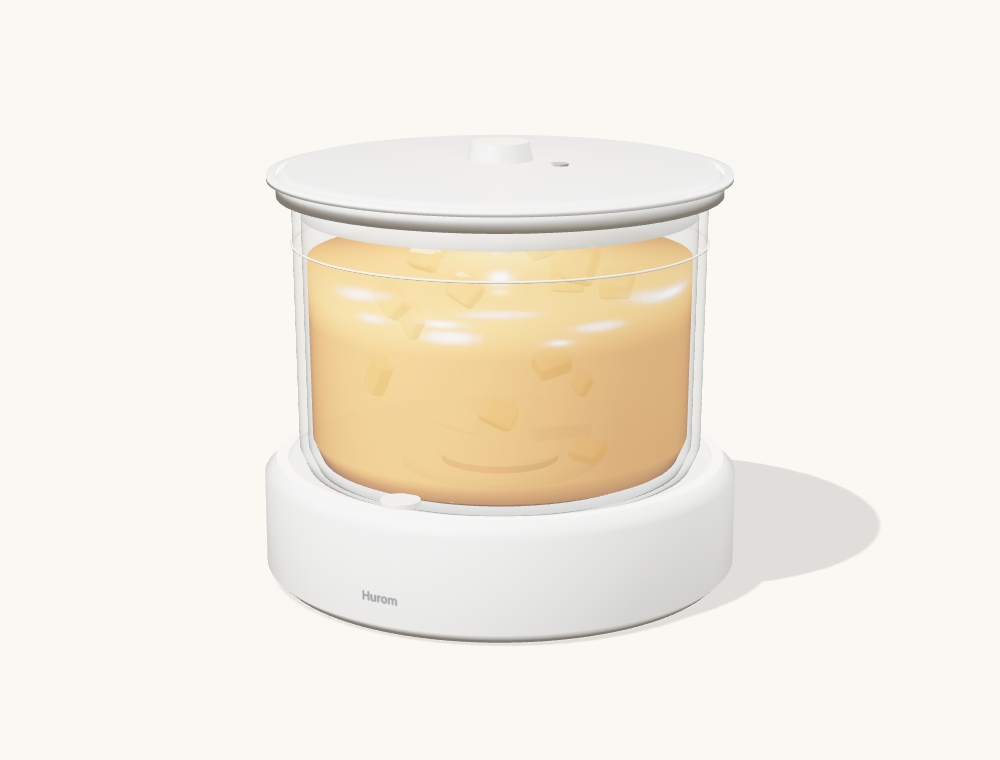
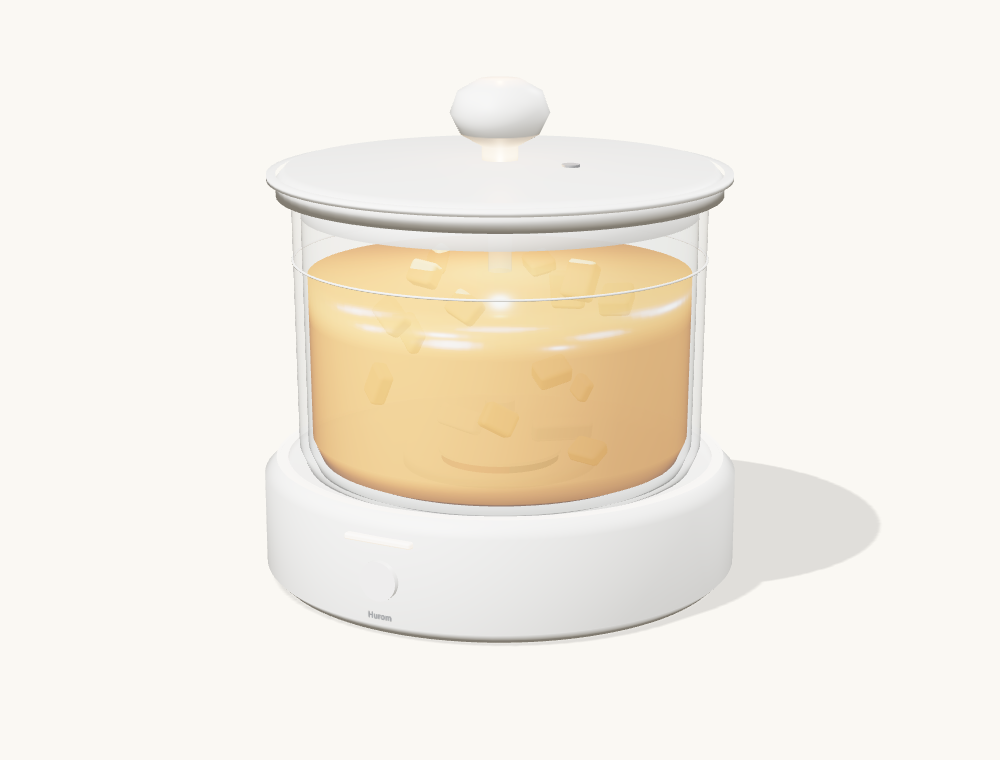
기준 디자인 1L 항아리형 반영(11/18 두팔 ffe51c1 이어서): 3D ?v=lj 기본값(배 Ø130 · 입구 Ø110 · 높이 120 · 받침 Ø150×40 · 받침 윗테 빛 링 · 둥근 손잡이=젓개 축 머리 · 앞면 빛 막대+버튼 · 1.0L 선 부피 계산) · 단면도 section-lite.svg 항아리형 · 05 기준 디자인 3D 렌더 2장 추가 · A/C는 비교안 표기 · 구조 칸 문구(세라믹 볼 삭제) · 맨 아래 「13 결정 요청」 칸 삭제(준보 「이거 지워」, 요약 결정 요청과 중복 · 글자 안 보임) · 렌더

diff --git a/index.html b/index.html
@@ -328,7 +328,7 @@ section h2 .ln{display:block;overflow:hidden}section h2 .ln span{display:block;w
 </style>
 
 <nav><div class="wrap"><b>HUROM<span>청담 · 과일청 메이커 기획서</span></b>
-<ul><li><a href="#summary">요약</a></li><li><a href="#problem">문제</a></li><li><a href="#whynow">왜 휴롬</a></li><li><a href="#product">제품</a></li><li><a href="#design">디자인</a></li><li><a href="#feasible">구조 검토</a></li><li><a href="#market">시장·고객</a></li><li><a href="#pricing">가격 정책</a></li><li><a href="#numbers">숫자</a></li><li><a href="#risk">리스크</a></li><li><a href="#validate">검증·일정</a></li><li><a href="#decision">결정 요청</a></li></ul></div></nav>
+<ul><li><a href="#summary">요약</a></li><li><a href="#problem">문제</a></li><li><a href="#whynow">왜 휴롬</a></li><li><a href="#product">제품</a></li><li><a href="#design">디자인</a></li><li><a href="#feasible">구조 검토</a></li><li><a href="#market">시장·고객</a></li><li><a href="#pricing">가격 정책</a></li><li><a href="#numbers">숫자</a></li><li><a href="#risk">리스크</a></li><li><a href="#validate">검증·일정</a></li></ul></div></nav>
 
 <header class="hero">
   <img src="img/photo_evening_omija.jpg" alt="저녁 조리대 위 과일청 메이커 · 오미자청을 담은 유리 통을 받침 빛이 비춤 · 컨셉 이미지"><div class="scrim"></div>
@@ -361,7 +361,7 @@ section h2 .ln{display:block;overflow:hidden}section h2 .ln span{display:block;w
         <li><b>얼마에 팔고 얼마가 남나?</b> — FOB부터 관세·인증·유통 수수료·AS까지 적층했습니다(<a href="#pricing">가격 정책</a>). 결론: 식히기까지 넣으면 착륙 9.07만(18.9만에 15%), 데우기만이면 7.2만(14.9만에 13%), <b>라이트는 착륙 3.4만 · 6.9만에 대당 0.6만(10%, FTA 14%)</b>입니다. 대당 이익이 작아 <b>자사몰 중심(수수료 12%) · 공용 PM 0.5명</b>이 손익의 조건입니다(<a href="#numbers">09</a>).</li>
         <li><b>살 사람이 있나?</b> — 「담그는 가구」와 「원액기 보유 가구」 두 길로 추정하고, 설문 N≥300으로 바꿔 넣습니다(<a href="#market">시장·고객</a>).</li>
       </ul></div>
-      <div><h3>결정 요청 (자세한 것은 <a href="#decision">맨 아래</a>)</h3><ul>
+      <div><h3>결정 요청</h3><ul>
         <li>① 1단계 검증 12주 · 약 1,500만 원 승인(벤치 · 설문 · 목업)</li>
         <li>② 가격 정책(11/17 결정): <b>「라이트」 6.9만 · USB-C · 1L · 젓기만</b> · 착륙 원가 3.4만(상한 3.6만) · 고급형(약 17만)은 설문 30% 넘으면 2년차</li>
         <li>③ 디자인 — <b>첫 화면 사진의 항아리형</b>을 기준으로(11/18) · A 통형 · C 넓적은 설문 비교안</li>
@@ -491,19 +491,23 @@ section h2 .ln{display:block;overflow:hidden}section h2 .ln span{display:block;w
         <tr><td class="l"><b>앞면</b></td><td class="l">버튼 1 + 빛 막대 1줄 + Hurom 각인 — 그 외 표시 없음 · USB-C는 뒤</td></tr>
       </table></div>
     </div>
+    <div class="two rv" style="margin-top:18px;align-items:start">
+      <div><div class="photo"><img src="img/lite_j.png" alt="기준 디자인 · 항아리형 1L 라이트 · 구조 3D 렌더(낮)"></div><div class="cap"><small>기준 디자인 · 구조 3D(낮)</small><b>배 Ø13 · 입구 Ø11 · 높이 12cm 항아리 + 흰 받침 Ø15 × 4cm · 둥근 손잡이 = 젓개 축 머리</b><p>위 사진을 치수대로 옮긴 구조 모형입니다. 앞면은 빛 막대 1줄 + 버튼 1, 통은 받침 윗면 홈(Ø9.4)에 앉고 받침 윗테 빛 링이 통 바닥을 비춥니다. 1.0L 상한 선은 어깨 아래입니다(전체 1.3L).</p></div></div>
+      <div><div class="photo"><img src="img/lite_j_night.png" alt="기준 디자인 · 항아리형 1L 라이트 · 저녁 조리대 · 유자청 · 받침 빛"></div><div class="cap"><small>기준 디자인 · 저녁</small><b>따뜻한 흰 단색 빛이 유자청 색을 그대로 비춥니다</b><p>분해 · 속 구조는 아래 「구조 3D」에서 스크롤로 봅니다(기본이 항아리형, 단추로 비교안 A · C · 이전 안 2L).</p></div></div>
+    </div>
     <p class="lead2 rv">며칠 동안 조리대 위에 놓여 있고 철마다 다시 꺼내는 물건입니다. 숨기고 싶은 기계면 베란다로 가고, 그러면 쓰지 않게 됩니다. 그래서 <b>꺼내 두고 싶은 물건</b>이어야 합니다. 디자인 작업은 피그마 보드에서 합니다 — 시안·CMF·사용 장면을 거기서 고치고, 이 페이지의 그림은 그 보드를 가져옵니다.</p>
     <a class="figma rv" href="https://www.figma.com/design/4p5ypveUPOybvLEnaq2gcE" target="_blank" rel="noopener">피그마 디자인 보드 열기 →</a> <a class="figma rv" href="film.html" style="background:#e98f1f;color:#15120f">30초 소개 필름 →</a> <a class="figma rv" href="prompts.html" style="background:#fff;color:#15120f;border:1px solid var(--line)">이미지 프롬프트 10컷 →</a>
     <div class="lite-cmp rv" style="margin-top:28px">
       <div class="two" style="margin-top:0">
-        <div><div class="photo"><img src="img/lite_a.png" alt="라이트 A · 통형 1L 유리 통 + 흰 받침 Ø12.5cm · 3D 렌더"></div><div class="cap"><small>비교안 A · 통형</small><b>Ø10 × 15cm 통 + 흰 받침 Ø12.5 × 4.5cm → 전체 Ø12.5 × 21.5cm</b><p>입구 Ø100이 가장 넓어 프레스 성형(항아리 연마 문제 없음). 좁은 조리대 · 냉장고 선반에 그대로 들어가고, 2L 통(별매)도 같은 받침에 앉습니다. 과일 층이 10cm로 깊어 <b>바닥 젓개가 위까지 섞는지</b>가 벤치 과제(염료 시험). 유리 통만 보면 「물병」으로 보일 수 있어 뚜껑 · 빛 테 비례를 피그마에서 다듬습니다.</p></div></div>
-        <div><div class="photo"><img src="img/lite_c.png" alt="라이트 C · 넓적 1L 유리 통 + 흰 받침 Ø16cm · 3D 렌더"></div><div class="cap"><small>비교안 C · 넓적</small><b>Ø13.5 × 9.5cm 통 + 흰 받침 Ø16 × 4cm → 전체 Ø16 × 15.5cm</b><p>바닥 면적이 A의 1.8배라 설탕층이 얇고 Ø6.6cm 날개가 더 넓게 섞어 <b>빨리 · 고르게 녹는 쪽</b>. 과일 층 7cm로 얕아 위까지 섞임이 유리하고 손 넣어 씻기 쉽습니다. 대신 자리를 1.6배 차지하고, 낮고 넓은 비례가 「요거트 메이커 · 반찬통」으로 읽힐 위험이 있어 받침 빛과 뚜껑 디자인에 더 기대야 합니다.</p></div></div>
+        <div><div class="photo"><img src="img/lite_a.png" alt="비교안 A · 통형 1L 유리 통 + 흰 받침 Ø12.5cm · 3D 렌더"></div><div class="cap"><small>비교안 A · 통형</small><b>Ø10 × 15cm 통 + 흰 받침 Ø12.5 × 4.5cm → 전체 Ø12.5 × 21.5cm</b><p>입구 Ø100이 가장 넓어 프레스 성형(항아리 연마 문제 없음). 좁은 조리대 · 냉장고 선반에 그대로 들어가고, 2L 통(별매)도 같은 받침에 앉습니다. 과일 층이 10cm로 깊어 <b>바닥 젓개가 위까지 섞는지</b>가 벤치 과제(염료 시험). 유리 통만 보면 「물병」으로 보일 수 있어 뚜껑 · 빛 테 비례를 피그마에서 다듬습니다.</p></div></div>
+        <div><div class="photo"><img src="img/lite_c.png" alt="비교안 C · 넓적 1L 유리 통 + 흰 받침 Ø16cm · 3D 렌더"></div><div class="cap"><small>비교안 C · 넓적</small><b>Ø13.5 × 9.5cm 통 + 흰 받침 Ø16 × 4cm → 전체 Ø16 × 15.5cm</b><p>바닥 면적이 A의 1.8배라 설탕층이 얇고 Ø6.6cm 날개가 더 넓게 섞어 <b>빨리 · 고르게 녹는 쪽</b>. 과일 층 7cm로 얕아 위까지 섞임이 유리하고 손 넣어 씻기 쉽습니다. 대신 자리를 1.6배 차지하고, 낮고 넓은 비례가 「요거트 메이커 · 반찬통」으로 읽힐 위험이 있어 받침 빛과 뚜껑 디자인에 더 기대야 합니다.</p></div></div>
       </div>
       <div class="night">
-        <div><img src="img/lite_a_night.png" alt="라이트 A · 저녁 조리대 · 유자청 · 받침 빛"><small>라이트 A · 저녁 — 단색 받침 빛이 통 안 유자청 색을 그대로 비춥니다</small></div>
-        <div><img src="img/lite_c_night.png" alt="라이트 C · 저녁 조리대 · 유자청 · 받침 빛"><small>라이트 C · 저녁 — 같은 빛, 넓은 통</small></div>
+        <div><img src="img/lite_a_night.png" alt="비교안 A · 저녁 조리대 · 유자청 · 받침 빛"><small>비교안 A · 저녁 — 같은 받침 빛, 통형</small></div>
+        <div><img src="img/lite_c_night.png" alt="비교안 C · 저녁 조리대 · 유자청 · 받침 빛"><small>비교안 C · 저녁 — 같은 빛, 넓은 통</small></div>
       </div>
       <table class="pl" style="margin-top:18px">
-        <tr><th class="l" style="width:22%">비교</th><th class="l" style="width:39%">라이트 A · 통형</th><th class="l">라이트 C · 넓적</th></tr>
+        <tr><th class="l" style="width:22%">비교(설문용 비교안 — 기준은 위 항아리형)</th><th class="l" style="width:39%">비교안 A · 통형</th><th class="l">비교안 C · 넓적</th></tr>
         <tr><td class="l"><b>유리 통</b></td><td class="l">내경 Ø100 × 150mm · 전체 1.2L · 1.0L 상한 선 · 붕규산 3.3 · 프레스 성형</td><td class="l">내경 Ø130 × 95mm · 전체 약 1.3L · 1.0L 상한 선(70mm) · 붕규산 3.3 · 프레스 성형</td></tr>
         <tr><td class="l"><b>전체 크기 · 무게</b></td><td class="l">Ø12.5 × 21.5cm · 약 0.9kg</td><td class="l">Ø16 × 15.5cm · 약 1.0kg(유리가 조금 더)</td></tr>
         <tr><td class="l"><b>받침 · 구동</b></td><td class="l">Ø12.5 × 4.5cm · 자석 디스크 Ø40 · 젓개 Ø5.4cm 날개 3</td><td class="l">Ø16 × 4cm · 자석 디스크 Ø40(같음) · 젓개 Ø6.6cm 날개 3 · 필요 토크 약 1.3배(여유 안)</td></tr>
@@ -545,10 +549,10 @@ section h2 .ln{display:block;overflow:hidden}section h2 .ln span{display:block;w
   <div class="wrap">
     <div class="kicker rv">06 · 구조 성립 검토 — 진짜 되나</div>
     <h2 class="rv">열여섯 번 따지고 수천 번 돌려서, 다섯 군데를 바꿨습니다.</h2>
-    <p class="note rv" style="border-left:3px solid #1f8a5b;padding-left:10px"><b>읽는 법(11/17):</b> 이 칸의 검토 ①~⑯은 <b>2L · 데우기/식히기 이전 안</b> 기준입니다. 기본안 「라이트」(1L · 젓기만)는 자석 토크 필요치가 0.5 → 0.1 N·m, 유리 바닥 창은 같고, 열 · 결로 · 펠티어 · 히터 항목은 해당 없음이라 <b>모두 더 여유 있는 쪽</b>입니다. 1L 전용 수치는 1주차 벤치 뒤 갱신합니다(<a href="#lite2">라이트 검토</a>). 단면도와 3D는 라이트 A 기준으로 다시 그렸고, 2L 단면도는 접힌 칸에 있습니다.</p>
+    <p class="note rv" style="border-left:3px solid #1f8a5b;padding-left:10px"><b>읽는 법(11/17):</b> 이 칸의 검토 ①~⑯은 <b>2L · 데우기/식히기 이전 안</b> 기준입니다. 기본안 「라이트」(1L · 젓기만)는 자석 토크 필요치가 0.5 → 0.1 N·m, 유리 바닥 창은 같고, 열 · 결로 · 펠티어 · 히터 항목은 해당 없음이라 <b>모두 더 여유 있는 쪽</b>입니다. 1L 전용 수치는 1주차 벤치 뒤 갱신합니다(<a href="#lite2">라이트 검토</a>). 단면도와 3D는 11/18 기준 디자인(1L 항아리형)으로 다시 그렸고, 2L 단면도는 접힌 칸에 있습니다.</p>
     <p class="lead2 rv">그림이 예쁜 것과 기계가 도는 것은 다릅니다. 힘 · 열 · 물 · 유리 · 안전을 하나씩 숫자로 따졌습니다. 아래 값은 설계 계산이며 <b>1단계 벤치에서 실측으로 바꿉니다.</b> 1차 검토(①~⑩) 뒤 사용 기간별 불량을 막는 보완안을 냈고, 그 보완안을 다시 의심해 <b>자석 · 젓기 · 열 · 유리 네 가지를 시뮬레이션으로 반복</b>했습니다(⑪~⑯: 공차 몬테카를로 5,000회 · 젓기 무작위 600회 · 1년 8개 달 열 계산). 바뀐 것 다섯: <b>① 자석 = 다극 링 1개 Ø70 · 간격 5.5mm</b> ② <b>유리 바닥 = 오목 자리 + 세라믹 볼</b> ③ <b>헛돎 판정 = 토크 방향 뒤집힘</b> ④ <b>결로 기준 = 컵 밀봉 + 유리 벽</b>, 여름 약속은 실온 −3~5°C ⑤ <b>스러스트 베어링 · 온도 퓨즈 · 통 감지 방식</b>. <b>11/17: 식히기(펠티어)를 기본형에서 빼서, 아래 표의 결로 · 극 전환 · 식혀 두기 줄은 「프로」 검토용으로만 남습니다.</b></p>
     <div class="duo rv" style="margin-top:24px"><div class="ph tilt" style="aspect-ratio:3/2"><img src="img/photo_cutaway.jpg" alt="과일청 메이커 단면 컨셉 이미지 · 유리 바닥 돌기 · 실리콘 교반 날개(자석 6개) · 하부 자석 디스크 · 슬림 기어모터 · 알루미늄 컵 · 펠티어 모듈"><span class="mono">04 / 단면 컨셉 (AI 이미지 · 2L 이전 안 · 비례 확인용)</span></div><div class="box" style="margin-top:0"><h3>신박한 점 하나 — 통에 구멍 없이 자석으로 젓습니다</h3><ul><li>유리 통 바닥에는 구멍·축·실링이 <b>없습니다.</b> 그래서 새지 않고, 통째 들어 냉장고로 갑니다.</li><li>바닥 가운데 오목 자리에 <b>실리콘 젓개(자석 디스크 Ø40 봉입 · 세라믹 볼 받침)</b>를 얹고, 유리 너머(유효 간격 4.5mm) 아래의 <b>자석 디스크</b>가 돌립니다(2L 이전 안은 링 자석 Ø70 · 5.5mm).</li><li>씻을 것은 뚜껑·유리 통·젓개 셋. 젓개는 뽑아서 식기세척기에 넣습니다. 축이 있는 블렌더·제빵기 통과 다른 점입니다.</li><li>힘이 모자라면(라이트 벤치 0.1 N·m 미달) 그때 바닥 축 직결로 바꿉니다 — 지금은 자석이 기본안입니다.</li></ul></div></div>
-    <div class="figure rv"><img src="img/section-lite.svg" alt="라이트 A 단면도 · 1L 유리 통 바닥과 받침 가운데 · 젓개 · 자석 디스크 Ø40 · 5V 기어 모터 · 보드 · USB-C 꽂이"><small>단면 · 라이트 A(1L) · 15개 부품의 자리와 치수. 가운데는 <b>뚜껑에서 내려온 투명 축 + 딸깍 젓개</b>(바닥 평평), 젓개 속은 <b>자석 디스크 Ø40(4극)</b>, 아래는 <b>디스크 + 부시 + 5V 기어 모터</b>. 컵 · 히터 · 펠티어 · 팬 없음. 축척 아님.</small></div>
+    <div class="figure rv"><img src="img/section-lite.svg" alt="라이트 항아리형 단면도 · 1L 유리 통 바닥과 받침 가운데 · 젓개 · 자석 디스크 Ø40 · 5V 기어 모터 · 보드 · USB-C 꽂이 · 받침 윗테 빛 링"><small>단면 · 라이트 항아리형(1L · 기준 디자인 · 배 Ø130 · 입구 Ø110 · 받침 Ø150 × 40) · 16개 부품의 자리와 치수. 가운데는 <b>뚜껑 손잡이에서 내려온 투명 축 + 딸깍 젓개</b>(바닥 평평), 젓개 속은 <b>자석 디스크 Ø40(4극)</b>, 아래는 <b>디스크 + 부시 + 5V 기어 모터</b>, 받침 윗테에 <b>빛 링</b>. 컵 · 히터 · 펠티어 · 팬 없음. 비교안 A · C는 통 모양만 다릅니다. 축척 아님.</small></div>
     <details class="prev"><summary>이전 안 · 2L 단면도(펠티어 · 알루미늄 컵 · 팬 · 링 자석 Ø70 포함 · 비교용)</summary><div class="figure" style="margin-top:0"><img src="img/section.svg" alt="통 바닥과 받침 가운데 단면도 · 유리 돌기 · 젓개 · 자석 원판 · 모터 · 펠티어 · 팬 · 결로 물받이"><small>단면 · 16개 부품의 자리와 치수(2차 검토 반영 이름표). 가운데는 <b>오목 자리 + 세라믹 볼</b>, 젓개 속은 <b>링 자석 1개</b>, 구동 원판 아래 스러스트 베어링(⑤ · ⑧ · ⑪). 축척 아님.</small></div></details>
     <table class="pl rv">
       <tr><th class="l" style="width:17%">검토 항목</th><th class="l" style="width:38%">계산 · 근거</th><th class="l" style="width:33%">결론 · 설계 반영</th><th>판정</th></tr>
@@ -574,7 +578,7 @@ section h2 .ln{display:block;overflow:hidden}section h2 .ln span{display:block;w
       <div><h3>이번 검토로 바뀐 것</h3><ul><li>식혀 두기 15~18°C 고정 → <b>이슬점 연동(최저 18°C, 장마철엔 23°C 안팎)</b>. 온습도 센서를 보드에 넣고 사양·작동·안전 칸을 모두 고쳤습니다.</li><li>컵 둘레 <b>물받이 홈 + 배수</b>, 보드 코팅 추가(결로 대비).</li><li>젓개 날개에 각도(축류) · 벤치에 <b>염료 순환 시험</b> 추가.</li><li>사용 기간별 불량을 따로 따져 <b>부품 10곳</b>을 더 바꿨습니다 — 자석 도금·기밀, 탈조 감지, BLDC, 붕규산 확정, 바닥 트레이, 통 감지 핀 위치 등(<a href="#lifecycle">11-B 재검토 표</a>).</li><li><b>2차(시뮬레이션 반복)</b>: 자석 다극 링 1개 Ø70 · 간격 5.5mm · 스러스트 베어링 · 컵 구멍 Ø76.</li><li><b>2차</b>: 유리 돌기 → 오목 자리 + 세라믹 볼 · 열탕 뒤 식히기 보류.</li><li><b>2차</b>: 헛돎 판정(토크 방향) · 통 감지 누름 핀 + 홀 · 72°C 온도 퓨즈.</li><li><b>2차</b>: 컵 밀봉 링 + 유리 벽 결로 기준 · 실리콘 막 · 여름 약속 실온 −3~5°C.</li></ul></div>
       <div><h3>벤치에서 꼭 재야 하는 숫자 5개</h3><ul><li>링 자석 Ø70 · 간격 5.5mm에서 미끄러지는 토크(목표 0.5, 계산 0.62~0.67 N·m) · FEM과 비교</li><li>통 세 지점 온도가 25~30°C에 드는 시간(목표 ≤3시간)</li><li>28°C·습도 75% 방에서 유리 벽 기준 제어 시 하루 결로량(목표 ≤10ml) · 12시간 뒤 실온보다 내려간 폭(계산 3.4°C)</li><li>걸쭉한 청 · 덩어리 · 첫날 더미에서 헛돎 판정이 100% 잡는지</li><li>바닥 날개 작동 시 염료가 윗면까지 도는 시간(목표 ≤10분)</li></ul></div>
     </div>
-    <div class="box rv" style="margin-top:24px"><h3>구조 3D · 분해도 (아래로 스크롤하면 부품별로 분해됩니다)</h3><p class="note">3D는 구조 설명용 모형입니다. 치수는 실제 디자인과 다를 수 있습니다. <b>라이트 A(통형) · C(넓적)</b>, 청 색, 나무 안을 단추로 바꿔 볼 수 있고, 「이전 안 2L」 단추로 항아리 시안 3개(펠티어 · 컵 · 팬 포함)도 볼 수 있습니다.</p></div>
+    <div class="box rv" style="margin-top:24px"><h3>구조 3D · 분해도 (아래로 스크롤하면 부품별로 분해됩니다)</h3><p class="note">3D는 구조 설명용 모형입니다. 치수는 실제 디자인과 다를 수 있습니다. 기본은 <b>기준 디자인(1L 항아리형)</b>이고, <b>비교안 A(통형) · C(넓적)</b>, 청 색, 나무 안을 단추로 바꿔 볼 수 있습니다. 「이전 안 2L」 단추로 2L 시안 3개(펠티어 · 컵 · 팬 포함)도 볼 수 있습니다.</p></div>
   </div>
 </section>
 
@@ -584,15 +588,15 @@ section h2 .ln{display:block;overflow:hidden}section h2 .ln span{display:block;w
     <a class="xv-skip" href="#spec">분해 보기 건너뛰기 ↓</a>
     <div class="xv-hint">스크롤을 내리면 날이 밝고 부품이 분해됩니다</div>
     <div class="xv-text">
-      <div class="xv-step on"><div class="kicker">구조 · 저녁 앞모습 (<span data-xv-lite="1">라이트 A Ø12.5 × 21.5cm · C Ø16 × 15.5cm</span><span data-xv-prev="1" hidden>2L 이전 안 · 시안 A Ø19 × 23cm</span>)</div><h2>받침 빛이 청을 비춥니다.</h2>
-    <p><span data-xv-lite="1">낮은 흰 받침(높이 4.5cm) 위에 1L 유리 통이 바로 앉습니다 — 알루미늄 컵이 없습니다. 자리 바닥의 단색 LED와 통 둘레 빛 테가 통을 아래에서 비춰 청 색이 그대로 보입니다. 아래 단추로 <b>라이트 A(통형) · C(넓적)</b> · 청 색 · 나무 안을 바꾸고, 「이전 안 2L」 단추로 항아리 시안도 볼 수 있습니다.</span><span data-xv-prev="1" hidden>2L 이전 안: 낮은 흰 받침(높이 5cm) 안에 알루미늄 컵이 있고, 거기에 항아리형 유리 통이 앉습니다. 통 둘레 빛 테와 컵 바닥 RGB LED 링이 품목 색으로 통을 아래에서 비춥니다.</span> 스크롤을 내리면 날이 밝고 부품별로 분해됩니다.</p></div>
+      <div class="xv-step on"><div class="kicker">구조 · 저녁 앞모습 (<span data-xv-lite="1">라이트 · 항아리형 Ø15 × 약 19cm(기준) · 비교안 A Ø12.5 × 21.5 · C Ø16 × 15.5</span><span data-xv-prev="1" hidden>2L 이전 안 · 시안 A Ø19 × 23cm</span>)</div><h2>받침 빛이 청을 비춥니다.</h2>
+    <p><span data-xv-lite="1">낮은 흰 받침(Ø15 × 4cm) 위에 1L 항아리형 유리 통(배 Ø13 · 입구 Ø11 · 높이 12cm)이 바로 앉습니다 — 알루미늄 컵이 없습니다. 받침 윗테 빛 링과 자리 바닥의 단색 LED가 통을 아래에서 비춰 청 색이 그대로 보입니다. 앞면은 빛 막대 1줄 + 버튼 1, 뚜껑의 둥근 손잡이는 젓개 축의 머리입니다. 아래 단추로 <b>기준(항아리형) · 비교안 A(통형) · C(넓적)</b> · 청 색 · 나무 안을 바꾸고, 「이전 안 2L」 단추로 2L 시안도 볼 수 있습니다.</span><span data-xv-prev="1" hidden>2L 이전 안: 낮은 흰 받침(높이 5cm) 안에 알루미늄 컵이 있고, 거기에 항아리형 유리 통이 앉습니다. 통 둘레 빛 테와 컵 바닥 RGB LED 링이 품목 색으로 통을 아래에서 비춥니다.</span> 스크롤을 내리면 날이 밝고 부품별로 분해됩니다.</p></div>
       <div class="xv-step"><div class="kicker">구조 · 뒷모습</div><h2><span data-xv-lite="1">뒤에는 USB-C 꽂이 하나.</span><span data-xv-prev="1" hidden>열과 선은 뒤로.</span></h2><p><span data-xv-lite="1">뒷면에는 USB-C 꽂이 하나뿐입니다. 팬 · 배기 슬롯 · 어댑터가 없어 바람길이 없습니다. 폰 충전기(5V 2A 이상)에 C-to-C 케이블로 꽂습니다. 앞에서는 버튼 하나와 빛 한 줄만 보입니다.</span><span data-xv-prev="1" hidden>2L 이전 안: 뒷면 슬롯으로 바람이 나갑니다. 바람은 바닥판 슬롯으로 들어와 방열판을 지나 뒤로 나갑니다. 어댑터 선도 뒤 아래로. 앞에서는 아무것도 안 보입니다.</span></p></div>
-      <div class="xv-step"><div class="kicker">구조 · 속</div><h2><span data-xv-lite="1">가운데는 자석뿐, 열은 없습니다.</span><span data-xv-prev="1" hidden>가운데는 자석, 둘레는 히터.</span></h2><p><span data-xv-lite="1">통 자리 바닥 바로 아래 자석 디스크 Ø40(4극)가 유효 간격 4.5mm(유리 2.5 + 젓개 덮개 + 띄움 + 틈)로 유리 너머 젓개를 돌립니다. 젓개는 통 바닥 가운데 오목 자리에 세라믹 볼로 얹혀 제자리에서만 돌고, 통에 구멍이 없습니다. 자석이 당기는 힘(약 8N)은 부시가 받습니다. 모터는 5V 기어 모터 20~30rpm, 걸림 · 헛돎 · 다 녹음은 모터 전류로 판정합니다. 히터 · 컵 · 펠티어 · 팬은 없습니다.</span><span data-xv-prev="1" hidden>2L 이전 안: 알루미늄 컵 가운데 Ø76mm는 뚫려 있어 유리 바닥(약 2.5mm)만 남고, 그 바로 아래 다극 링 자석 원판(Ø70)이 유효 간격 5.5mm로 유리 너머 젓개를 돌립니다. 자석끼리 당기는 힘은 원판 아래 스러스트 베어링이 받습니다. 컵 바깥 펠티어가 컵을 데우거나 식히고, 주황색 선은 바람길입니다.</span></p></div>
-      <div class="xv-step"><div class="kicker">구조 · 분해</div><h2><span data-xv-lite="1">부품 11개, 씻는 것은 셋 — 뚜껑을 들면 젓개가 따라 나옵니다.</span><span data-xv-prev="1" hidden>부품 14개, 씻는 것은 셋.</span></h2><p><span data-xv-lite="1">뚜껑을 들면 가운데 투명 축(트라이탄 Ø8)에 달린 젓개가 같이 올라옵니다 — 다 된 청 속에 손을 넣을 일이 없습니다. 젓개는 축 끝에서 딸깍 빼 식기세척기에 넣고, 통은 바닥이 평평해(오목 자리 · 세라믹 볼 없음) 손이 다 닿습니다. 다 녹으면 납작한 보관 뚜껑(밸브)으로 바꿔 통째 냉장고로 옮깁니다. 빛 링 · 구동 자석 디스크와 모터 · 보드 · 바닥판은 받침에 남습니다. 센서는 통 감지 홀 센서와 모터 전류 감지뿐입니다. 전원은 USB-C 5V(어댑터 없음 · C-to-C 케이블 1m 동봉).</span><span data-xv-prev="1" hidden>2L 이전 안: 컵·빛 링·펠티어·방열판·팬·구동 자석 원판과 모터·보드·바닥판은 받침에 남습니다. 센서는 NTC(컵) + 통 감지 누름 핀 · 홀 센서 + 72°C 온도 퓨즈. 전원은 12V 외장 어댑터.</span></p></div>
+      <div class="xv-step"><div class="kicker">구조 · 속</div><h2><span data-xv-lite="1">가운데는 자석뿐, 열은 없습니다.</span><span data-xv-prev="1" hidden>가운데는 자석, 둘레는 히터.</span></h2><p><span data-xv-lite="1">통 자리 바닥 바로 아래 자석 디스크 Ø40(4극)가 유효 간격 4.5mm(유리 2.5 + 젓개 덮개 + 띄움 + 틈)로 유리 너머 젓개를 돌립니다. 젓개는 뚜껑에서 내려온 투명 축 끝에 끼워져 제자리에서만 돌고(바닥 평평 · 오목 자리 · 세라믹 볼 없음), 통에 구멍이 없습니다. 자석이 당기는 힘(약 8N)은 부시가 받습니다. 모터는 5V 기어 모터 20~30rpm, 걸림 · 헛돎 · 다 녹음은 모터 전류로 판정합니다. 히터 · 컵 · 펠티어 · 팬은 없습니다.</span><span data-xv-prev="1" hidden>2L 이전 안: 알루미늄 컵 가운데 Ø76mm는 뚫려 있어 유리 바닥(약 2.5mm)만 남고, 그 바로 아래 다극 링 자석 원판(Ø70)이 유효 간격 5.5mm로 유리 너머 젓개를 돌립니다. 자석끼리 당기는 힘은 원판 아래 스러스트 베어링이 받습니다. 컵 바깥 펠티어가 컵을 데우거나 식히고, 주황색 선은 바람길입니다.</span></p></div>
+      <div class="xv-step"><div class="kicker">구조 · 분해</div><h2><span data-xv-lite="1">부품 11개, 씻는 것은 셋 — 뚜껑을 들면 젓개가 따라 나옵니다.</span><span data-xv-prev="1" hidden>부품 14개, 씻는 것은 셋.</span></h2><p><span data-xv-lite="1">뚜껑의 둥근 손잡이(= 축 머리)를 잡아 들면 가운데 투명 축(트라이탄 Ø8)에 달린 젓개가 같이 올라옵니다 — 다 된 청 속에 손을 넣을 일이 없습니다. 젓개는 축 끝에서 딸깍 빼 식기세척기에 넣고, 통은 바닥이 평평해(오목 자리 · 세라믹 볼 없음) 손이 다 닿습니다. 다 녹으면 납작한 보관 뚜껑(밸브)으로 바꿔 통째 냉장고로 옮깁니다. 빛 링 · 구동 자석 디스크와 모터 · 보드 · 바닥판은 받침에 남습니다. 센서는 통 감지 홀 센서와 모터 전류 감지뿐입니다. 전원은 USB-C 5V(어댑터 없음 · C-to-C 케이블 1m 동봉).</span><span data-xv-prev="1" hidden>2L 이전 안: 컵·빛 링·펠티어·방열판·팬·구동 자석 원판과 모터·보드·바닥판은 받침에 남습니다. 센서는 NTC(컵) + 통 감지 누름 핀 · 홀 센서 + 72°C 온도 퓨즈. 전원은 12V 외장 어댑터.</span></p></div>
     </div>
     <div class="xv-stage"><canvas id="xv-canvas" aria-label="청담 3D · 시안 · 청 색 · 분해도"></canvas><div id="xv-labels"></div>
       <div class="xv-colors" role="group" aria-label="시안과 청 색">
-        <div><button data-xv-variant="la" class="txt on">라이트 A · 통형</button><button data-xv-variant="lc" class="txt">라이트 C · 넓적</button><button data-xv-wood="1" class="txt"><i style="background:#c99a66"></i>나무</button></div>
+        <div><button data-xv-variant="lj" class="txt on">라이트 · 항아리형(기준)</button><button data-xv-variant="la" class="txt">비교안 A · 통형</button><button data-xv-variant="lc" class="txt">비교안 C · 넓적</button><button data-xv-wood="1" class="txt"><i style="background:#c99a66"></i>나무</button></div>
         <div><span class="xv-sep">이전 안 2L</span><button data-xv-variant="a" class="txt prev">A 항아리</button><button data-xv-variant="b" class="txt prev">B 원통</button><button data-xv-variant="c" class="txt prev">C 넓적</button></div>
         <div><button data-xv-color="yuja" class="on"><i style="background:#f29a2e"></i>유자</button><button data-xv-color="maesil"><i style="background:#8cb43c"></i>매실</button><button data-xv-color="omija"><i style="background:#c41f3e"></i>오미자</button><button data-xv-color="strawberry"><i style="background:#f06a8c"></i>딸기</button></div>
       </div></div>
@@ -1101,21 +1105,6 @@ section h2 .ln{display:block;overflow:hidden}section h2 .ln span{display:block;w
       <div><h3>조직 · 역할</h3><ul><li><b>PM 1</b>(기획 · 검증 · 가격) — AX팀</li><li><b>기구 1</b>(컵 · 젓개 · 유리 · 금형 관리) — 제품혁신부문 또는 외주 + AI 설계 검증</li><li><b>회로 · 펌웨어</b> — 외주(서늘고·해동기 보드와 공통 설계)</li><li><b>ID</b> — 외주(피그마 보드 기준) · <b>구매</b>(ODM · 유리 · 자석) · <b>품질</b>(식품 접촉 · 신뢰성)</li><li>단계 전환 조건: G1 통과 시 기구·회로 전담 지정, G2 전 품질 합류</li></ul></div>
       <div><h3>출시 — 북극성 지표와 90일 KPI</h3><ul><li><b>북극성:</b> 구매 후 30일 안에 첫 통을 담근 비율 <b>70%</b> · 두 번째 철에 다시 담근 비율 <b>50%</b>(사용률이 곧 재구매·추천)</li><li><b>90일 KPI:</b> 1차 로트 3,000대 소진 · 자사몰 비중 50% · 반품률 3% 이하 · 리뷰 「설탕 다 녹았다」 언급 60% 이상</li><li><b>메시지:</b> 「넣고, 누르고, 알림 오면 냉장고로.」 · 「올해 유자청은 실패 없이.」</li><li><b>채널 · 시즌:</b> 11월 유자 출시 → 3월 딸기 → 6월 매실(통 추가 판매) · 원액기 CRM 선공개 · 선물 세트(통 2개)</li></ul></div>
     </div>
-  </div>
-</section>
-
-<section id="decision" style="background:#15120f;color:#f3efe8">
-  <div class="wrap">
-    <div class="kicker rv" style="color:#a89f93">13 · 결정 요청</div>
-    <h2 class="rv" style="color:#fff">다섯 가지를 결정해 주시면 12주 뒤 숫자로 돌아오겠습니다.</h2>
-    <div class="decide rv">
-      <div><small>결정 1</small><b>1단계 검증 승인</b><p>12주 · 약 1,500만 원(벤치 450 · 설문/인터뷰 550 · 목업 500). 결과는 Go 기준 4개와 중단 기준으로 G1(2027-03)에 보고합니다.</p></div>
-      <div><small>결정 2</small><b>가격 정책 방향</b><p><b>11/17 결정(준보 님) — 기본안 「라이트」 6.9만 원 · USB-C · 1L 붕규산 · 젓기만</b>(<a href="#lite2">검토</a>) · 착륙 원가 3.4만(상한 3.6만, FTA 시 3.2만) · 프로모션 하한 6.4만 · <b>자사몰 중심 유통(수수료 12%) · 공용 PM 0.5명이 손익 조건</b>. 설문 가격 문항 5.9 / 6.9 / 7.9만 + 「3만 요거트 메이커 vs 6.9만 라이트 vs 17만 고급형」 사진 비교. 고급형(약 17만 · 2L · 데우기/식히기)은 선택 30% 넘으면 2년차 추가. 이전 안: 데우기만 14.9만(11/17 오전) · 식히기 포함 18.9만.</p></div>
-      <div><small>결정 3</small><b>디자인 시안 A</b><p>항아리형 + 낮은 흰 받침으로 피그마 디자인을 진행합니다(나무 안은 옵션). B는 바닥 오목 자리 때문에 기성 통을 못 써서 제외, C는 대안으로 보관.</p></div>
-      <div><small>결정 4</small><b>ODM 견적</b><p>라이트는 서늘고 · 해동기 묶음(12V · 펠티어 · BLDC)과 부품이 거의 겹치지 않으므로 <b>요거트 메이커 · 자석 믹싱컵을 만드는 광둥 ODM 3곳</b>에 따로 견적을 냅니다(1L 붕규산 통은 허베이 · 산둥 유리 공장 직구매 후 지급). 서늘고 · 해동기 묶음 견적은 그대로 진행.</p></div>
-      <div><small>결정 5</small><b>2차 구조 검토 결과</b><p>① 통 모양: 입구(Ø12)가 배(Ø16)보다 좁은 항아리는 프레스로 못 빼 취입 + 바닥 연마(통 단가 +0.2만)가 필요합니다. 입구를 배 가까이 넓힌 프레스형을 권합니다. ② 여름 식히기 · 단열 슬리브 · 데우기 히터 · 알루미늄 컵은 라이트에서 모두 뺐습니다(11/17). ③ 11/18 기준 디자인은 첫 화면 사진의 <b>1L 항아리형</b>(배 Ø130 · 입구 Ø110 · 높이 120)입니다. 입구가 배보다 좁아 취입 성형이 필요하지만, 젓개가 뚜껑 축에 달려 바닥이 평평해졌으므로 바닥 연마는 빠집니다(통 단가 +0.1~0.2만 추정). A 통형 · C 넓적은 설문 비교안으로 둡니다.</p></div>
-    </div>
-    <p class="note rv" style="color:#a89f93;margin-top:28px">후속 요청: 특허팀 KIPRIS 선행 조사(출원 후보 3건) · 자사몰 회원 설문 발송 승인 · 유리 공장 2곳 샘플 의뢰(오목 자리 · 항아리+연마 / 넓은 입구 프레스) · 자석 협력사 FEM 해석 의뢰.</p>
   </div>
 </section>
 

diff --git a/explode.js b/explode.js
@@ -7,7 +7,8 @@ import { RoomEnvironment } from 'three/addons/environments/RoomEnvironment.js';
 //   시안 3개: A 항아리형 유리 + 흰 무광 받침 · B 원통 유리 + 연회색 세라믹 받침 · C 넓적한 낮은 유리 + 베이지 받침. 나무 안: 뚜껑 손잡이·받침 윗테.
 //   치수는 모두 가정(단위 10cm): A 받침 Ø20 × 6cm · 통 Ø16(배) × 16cm · 뚜껑 1.2cm.
 //   2026-11-17 라이트 기본안(준보 「둘 다 넣어봐」): ?v=la(통형 1L) · ?v=lc(넓적 1L) — USB-C 5V · 자석 디스크 Ø40 · 5V 기어 모터 · 컵 · 히터 · 펠티어 · 팬 · 어댑터 없음. a|b|c 는 2L 이전 안(비교용).
-//   쿼리: ?p=0~1 진행도 · ?v=la|lc|a|b|c 시안 · ?c=yuja|maesil|omija|strawberry 청 색 · ?wood 나무 안 · ?night 저녁 장면 고정 · ?day 낮 고정 · ?ang=<도> · ?cy= · ?noairg ?noadapter ?nofruit
+//   2026-11-18 기준 디자인 = 첫 화면 사진(준보 「메인이미지대로 보완」): ?v=lj 항아리형 1L — 배 Ø130 · 입구 Ø110 · 높이 120 · 받침 Ø150 × 40 · 받침 윗테 빛 링 · 뚜껑 손잡이 = 젓개 축 머리 · 앞면 버튼 1 + 빛 막대. la/lc 는 설문 비교안.
+//   쿼리: ?p=0~1 진행도 · ?v=lj|la|lc|a|b|c 시안 · ?c=yuja|maesil|omija|strawberry 청 색 · ?wood 나무 안 · ?night 저녁 장면 고정 · ?day 낮 고정 · ?ang=<도> · ?cy= · ?noairg ?noadapter ?nofruit
 const sec = document.getElementById('structure');
 const canvas = document.getElementById('xv-canvas');
 const labelLayer = document.getElementById('xv-labels');
@@ -80,8 +81,9 @@ const M = {
 
 /* ---------- 시안 · 청 색 ---------- */
 const VARIANTS = {
-  la: { name: '라이트 A · 통형 1L · 흰 받침', lite: true, baseR: 0.625, baseH: 0.45, square: false, baseColor: 0xf4f4f1, baseRough: 0.45, baseClear: 0.3, jar: 'lcyl', jarH: 1.5, mouthR: 0.53, cupR: 0.56 },
-  lc: { name: '라이트 C · 넓적 1L · 흰 받침', lite: true, baseR: 0.80, baseH: 0.40, square: false, baseColor: 0xf4f4f1, baseRough: 0.45, baseClear: 0.3, jar: 'lwide', jarH: 0.95, mouthR: 0.69, cupR: 0.72 },
+  lj: { name: '라이트 · 항아리형 1L · 기준(첫 화면 사진)', lite: true, baseR: 0.75, baseH: 0.40, square: false, baseColor: 0xf4f4f1, baseRough: 0.45, baseClear: 0.3, jar: 'ljar', jarH: 1.2, mouthR: 0.55, cupR: 0.56, footR: 0.44, totalL: 1.3 },
+  la: { name: '라이트 A · 통형 1L · 흰 받침', lite: true, baseR: 0.625, baseH: 0.45, square: false, baseColor: 0xf4f4f1, baseRough: 0.45, baseClear: 0.3, jar: 'lcyl', jarH: 1.5, mouthR: 0.53, cupR: 0.56, totalL: 1.2 },
+  lc: { name: '라이트 C · 넓적 1L · 흰 받침', lite: true, baseR: 0.80, baseH: 0.40, square: false, baseColor: 0xf4f4f1, baseRough: 0.45, baseClear: 0.3, jar: 'lwide', jarH: 0.95, mouthR: 0.69, cupR: 0.72, totalL: 1.3 },
   a: { name: 'A 항아리형 · 흰 무광 받침', baseR: 0.95, baseH: 0.5, square: false, baseColor: 0xf4f4f1, baseRough: 0.45, baseClear: 0.3, jar: 'onggi', jarH: 1.6, mouthR: 0.58, cupR: 0.66 },
   b: { name: 'B 원통 · 연회색 세라믹 받침', baseR: 0.85, baseH: 0.5, square: true, baseColor: 0xc6c3bc, baseRough: 0.95, baseClear: 0.0, jar: 'cyl', jarH: 1.6, mouthR: 0.7, cupR: 0.74 },
   c: { name: 'C 넓적한 낮은 통 · 베이지 받침', baseR: 1.05, baseH: 0.42, square: false, baseColor: 0xd3c0a3, baseRough: 0.6, baseClear: 0.15, jar: 'wide', jarH: 1.1, mouthR: 0.86, cupR: 0.92 },
@@ -92,7 +94,7 @@ const COLORS = {
   omija: { name: '오미자', syrup: 0xb3122f, fruit: 0xe24a66, light: 0xff3b5c },
   strawberry: { name: '딸기', syrup: 0xe85a80, fruit: 0xff9ab6, light: 0xff7aa0 },
 };
-let variantKey = (Q.get('v') || 'la').toLowerCase(); if (!VARIANTS[variantKey]) variantKey = 'la';
+let variantKey = (Q.get('v') || 'lj').toLowerCase(); if (!VARIANTS[variantKey]) variantKey = 'lj';
 let colorKey = Q.get('c') || 'yuja'; if (!COLORS[colorKey]) colorKey = 'yuja';
 let wood = Q.has('wood');
 
@@ -115,9 +117,16 @@ function tube(points, r, mat, seg = 40) { return new THREE.Mesh(new THREE.TubeGe
 function jarProfile(kind, H) {
   if (kind === 'onggi') return [[0, 0], [0.5, 0], [0.56, 0.02], [0.63, 0.12], [0.74, 0.32], [0.8, 0.55], [0.8, 0.78], [0.76, 1.0], [0.68, 1.2], [0.6, 1.36], [0.58, 1.46], [0.62, 1.52], [0.62, H]];
   if (kind === 'cyl') return [[0, 0], [0.64, 0], [0.7, 0.06], [0.7, H - 0.02], [0.7, H]];
+  if (kind === 'ljar') return [[0, 0], [0.40, 0], [0.47, 0.02], [0.56, 0.09], [0.62, 0.22], [0.65, 0.40], [0.65, 0.58], [0.63, 0.74], [0.59, 0.88], [0.55, 1.00], [0.53, 1.08], [0.535, 1.13], [0.56, 1.17], [0.56, H]];   // 라이트 항아리형 배 Ø130 · 입구 Ø110 · 높이 120 · 바닥 Ø80 평평(취입 성형)
   if (kind === 'lcyl') return [[0, 0], [0.42, 0], [0.48, 0.02], [0.51, 0.08], [0.515, 0.5], [0.525, 1.1], [0.53, H - 0.03], [0.53, H]];   // 라이트 A 통형 Ø10 × 15cm · 위로 살짝 벌어짐(프레스 성형)
   if (kind === 'lwide') return [[0, 0], [0.58, 0], [0.65, 0.03], [0.68, 0.1], [0.685, 0.5], [0.69, H - 0.03], [0.69, H]];   // 라이트 C 넓적 Ø13.5 × 9.5cm
   return [[0, 0], [0.74, 0], [0.86, 0.1], [0.9, 0.3], [0.9, H - 0.02], [0.9, H]];   // wide 넓적
+}
+function volY(profile, frac) {   // 안쪽 옆모습을 회전시킨 부피의 frac 지점 높이(1.0L 상한 선)
+  const seg = []; let tot = 0;
+  for (let i = 1; i < profile.length; i++) { const [r0, y0] = profile[i - 1], [r1, y1] = profile[i]; const v = Math.PI * (y1 - y0) * (r0 * r0 + r0 * r1 + r1 * r1) / 3; seg.push([y0, y1, v]); tot += v; }
+  let acc = 0; for (const [y0, y1, v] of seg) { if (acc + v >= tot * frac) return y0 + (y1 - y0) * ((tot * frac - acc) / v); acc += v; }
+  return profile[profile.length - 1][1];
 }
 function inset(profile, d) { return profile.map(([r, y], i) => [Math.max(0, r - (i === 0 ? 0 : d)), y]); }
 function syrupProfile(profile, fillY) {   // 안쪽 모양을 fillY 높이까지 잘라 윗면을 닫음
@@ -322,23 +331,25 @@ function buildLite() {
   const GT = 0.025, GAP = 0.008;                                 // 유리 바닥 2.5mm · 그림 틈 — 실제 유효 간격 4.5mm(유리 2.5 + 덮개 1 + 띄움 0.5 + 틈 0.5)
   const MR = 0.20, STEMR = 0.04;                                 // 자석 디스크 Ø40(양쪽 같음) · 뚜껑 축 Ø8mm(투명 트라이탄) — 오목 자리 · 세라믹 볼 없음(바닥 평평)
   const VR = V.jar === 'lwide' ? 0.33 : 0.27;                    // 날개 Ø6.6 / Ø5.4cm
-  const JR = V.mouthR;                                           // 통 바깥 반지름(입구가 가장 넓음)
+  const JR = V.mouthR;                                           // 통 입구 바깥 반지름
+  const SR = (V.footR || V.mouthR) + 0.03;                       // 받침 자리 반지름(항아리형은 바닥 Ø80 + 여유)
+  const JAR = V.jar === 'ljar';
   M.body.color.set(V.baseColor); M.body.roughness = V.baseRough; M.body.clearcoat = V.baseClear;
   /* 1. 받침 — Ø12.5 × 4.5cm(A) · Ø16 × 4cm(C) · 흰 무광 · 뒤에 USB-C 꽂이 하나. 팬 구멍 · 배기 슬롯 없음 */
   {
     const g = new THREE.Group();
-    const body = lathe([[0, 0], [V.baseR - 0.04, 0], [V.baseR, 0.04], [V.baseR, BH - 0.05], [V.baseR - 0.05, BH], [JR + 0.03, BH], [JR + 0.03, SEAT_Y], [0, SEAT_Y]], M.body, 96); g.add(body);
+    const body = lathe([[0, 0], [V.baseR - 0.04, 0], [V.baseR, 0.04], [V.baseR, BH - 0.05], [V.baseR - 0.05, BH], [SR, BH], [SR, SEAT_Y], [0, SEAT_Y]], M.body, 96); g.add(body);
     const port = new THREE.Mesh(new RoundedBoxGeometry(0.09, 0.032, 0.05, 2, 0.014), M.dark); port.position.set(0, BH * 0.42, -(V.baseR - 0.015)); g.add(port);   // USB-C 꽂이(뒤)
-    const halo = new THREE.Mesh(new THREE.RingGeometry(JR + 0.03, JR + 0.07, 96), M.ledRing); halo.rotation.x = -Math.PI / 2; halo.position.y = BH + 0.002; g.add(halo);   // 통 둘레 빛 테
-    const lg = new THREE.Mesh(new THREE.PlaneGeometry(0.3, 0.075), M.logo); lg.position.set(0, BH * 0.32, V.baseR + 0.004); g.add(lg);
-    if (wood) { const ring = lathe([[JR + 0.03, BH - 0.001], [V.baseR - 0.05, BH - 0.001], [V.baseR - 0.05, BH + 0.03], [JR + 0.03, BH + 0.03]], M.wood, 96); g.add(ring); woodMeshes.push(ring); }
-    part(`받침 · Ø${(V.baseR * 20).toFixed(1).replace('.0', '')} × ${(BH * 10).toFixed(1)}cm · 흰 무광 · 뒤에 USB-C 꽂이 · 컵 · 히터 · 팬 없음`, g, [0, 0, 0], new THREE.Vector3(-V.baseR * 0.8, BH * 0.5, V.baseR * 0.5));
+    const halo = new THREE.Mesh(new THREE.RingGeometry(SR, SR + (JAR ? 0.06 : 0.04), 96), M.ledRing); halo.rotation.x = -Math.PI / 2; halo.position.y = BH + 0.002; g.add(halo);   // 받침 윗테 빛 링(통 둘레)
+    const lg = new THREE.Mesh(new THREE.PlaneGeometry(0.2, 0.05), M.logo); lg.position.set(0, BH * 0.17, V.baseR + 0.004); g.add(lg);   // Hurom 각인(앞 아래)
+    if (wood) { const ring = lathe([[SR, BH - 0.001], [V.baseR - 0.05, BH - 0.001], [V.baseR - 0.05, BH + 0.03], [SR, BH + 0.03]], M.wood, 96); g.add(ring); woodMeshes.push(ring); }
+    part(`받침 · Ø${(V.baseR * 20).toFixed(1).replace('.0', '')} × ${(BH * 10).toFixed(1).replace('.0', '')}cm · 흰 무광 · 윗테 빛 링 · 뒤에 USB-C 꽂이 · 컵 · 히터 · 팬 없음`, g, [0, 0, 0], new THREE.Vector3(-V.baseR * 0.8, BH * 0.5, V.baseR * 0.5));
   }
   /* 2. 빛 링 — 자리 바닥의 단색 LED(따뜻한 흰). 청 색이 그대로 비쳐 보이고, 숨쉬기 = 젓는 중 · 고정 = 다 녹음 */
   {
     const g = new THREE.Group();
-    const ring = new THREE.Mesh(new THREE.RingGeometry(MR + 0.07, JR - 0.02, 64), M.ledRing); ring.rotation.x = -Math.PI / 2; ring.position.y = SEAT_Y + 0.004; g.add(ring);
-    part('빛 링 · 단색 LED · 통을 아래서 비춤 · 숨쉬기=젓는 중 · 고정=다 녹음', g, [0, 0.38, 0], new THREE.Vector3(-0.3, SEAT_Y, 0.15), true);
+    const ring = new THREE.Mesh(new THREE.RingGeometry(MR + 0.07, SR - 0.04, 64), M.ledRing); ring.rotation.x = -Math.PI / 2; ring.position.y = SEAT_Y + 0.004; g.add(ring);
+    part('빛 링 · 받침 윗테 + 자리 바닥 · 단색 LED(따뜻한 흰) · 통을 아래서 비춤 · 숨쉬기=젓는 중 · 고정=다 녹음', g, [0, 0.38, 0], new THREE.Vector3(-0.3, SEAT_Y, 0.15), true);
   }
   /* 3. 유리 통 — 1L 붕규산 3.3 · 입구가 가장 넓어 프레스 성형 · 바닥 2.5mm 평평(축 젓개라 오목 자리 없음) · 1.0L 상한 선 */
   {
@@ -347,23 +358,24 @@ function buildLite() {
     const outer = lathe(prof, M.glass, 96);
     const innerP = inset(prof, 0.03); innerP[0] = [0, GT];
     g.add(outer, lathe(innerP, M.glass, 96));
-    const lineY = JH * (1.0 / 1.2);   // 1.0L 상한 선(전체 1.2L)
-    const line = new THREE.Mesh(new THREE.TorusGeometry(JR + 0.002, 0.004, 8, 96), M.pp); line.rotation.x = Math.PI / 2; line.position.y = lineY; g.add(line);
+    const lineY = volY(inset(prof, 0.03), 1.0 / (V.totalL || 1.2));   // 1.0L 상한 선(전체 부피 중 1.0L 지점)
+    const lineR = (() => { const q = prof; for (let i = 1; i < q.length; i++) if (q[i][1] >= lineY) { const t = (lineY - q[i - 1][1]) / (q[i][1] - q[i - 1][1]); return q[i - 1][0] + (q[i][0] - q[i - 1][0]) * t; } return JR; })();
+    const line = new THREE.Mesh(new THREE.TorusGeometry(lineR + 0.002, 0.004, 8, 96), M.pp); line.rotation.x = Math.PI / 2; line.position.y = lineY; g.add(line);
     const fillY = lineY - 0.08;
     g.add(lathe(syrupProfile(prof, fillY), M.syrup, 96));
     fruitG = new THREE.Group(); fruitG.name = 'fruit'; g.add(fruitG);
     const rnd = (() => { let s = 11; return () => { s = (s * 16807) % 2147483647; return s / 2147483647; }; })();
-    const n = V.jar === 'lwide' ? 14 : 11;
+    const n = V.jar === 'lwide' ? 14 : JAR ? 13 : 11;
     for (let i = 0; i < n; i++) {
       const top = i < Math.ceil(n * 0.55);
       const y = top ? fillY - 0.02 - rnd() * 0.08 : 0.1 + rnd() * Math.max(0.1, fillY - 0.3);
-      const rAt = (V.jar === 'lwide' ? 0.6 : 0.46) - 0.1;
+      const rAt = (V.jar === 'lwide' ? 0.6 : JAR ? 0.56 : 0.46) - 0.1;
       const a = rnd() * Math.PI * 2, rr = Math.sqrt(rnd()) * Math.max(0.08, rAt - 0.04);
       const f = new THREE.Mesh(new RoundedBoxGeometry(0.08 + rnd() * 0.06, 0.04 + rnd() * 0.03, 0.08 + rnd() * 0.06, 2, 0.016), M.fruit);
       f.position.set(Math.cos(a) * rr, y + 0.03, Math.sin(a) * rr); f.rotation.set(rnd(), rnd() * 3, rnd()); fruitG.add(f);
     }
     g.position.y = JY;
-    part(`유리 통 · 1L 붕규산 3.3 · ${V.jar === 'lwide' ? '넓적 Ø13.5 × 9.5cm' : '통형 Ø10 × 15cm'} · 입구가 가장 넓음(프레스 성형) · 바닥 2.5mm 평평(오목 자리 없음) · 1.0L 상한 선 · 구멍 없음`, g, [0, 1.2, 0], new THREE.Vector3(JR + 0.1, JH * 0.75, 0));
+    part(`유리 통 · 1L 붕규산 3.3 · ${JAR ? '항아리형 배 Ø13 · 입구 Ø11 · 높이 12cm · 취입(블로우) 성형' : V.jar === 'lwide' ? '넓적 Ø13.5 × 9.5cm · 입구가 가장 넓음(프레스 성형)' : '통형 Ø10 × 15cm · 입구가 가장 넓음(프레스 성형)'} · 바닥 2.5mm 평평(오목 자리 없음) · 1.0L 상한 선(전체 ${V.totalL || 1.2}L) · 구멍 없음`, g, [0, 1.2, 0], new THREE.Vector3(JR + 0.1, JH * 0.75, 0));
   }
   /* 4. 젓개 — 날개 3 · 자석 디스크 Ø40 봉입(4극 · 도금 + PP + 실리콘) · 뚜껑 축 끝에 딸깍 끼워 바닥에 닿아 돎 · 빼서 식기세척기 */
   {
@@ -382,15 +394,16 @@ function buildLite() {
     const r = JR + 0.05;
     const lid = lathe([[0, 0], [r, 0], [r, 0.055], [r - 0.03, 0.09], [0.14, 0.11], [0, 0.11]], M.lid, 72); g.add(lid);
     const skirt = lathe([[JR - 0.05, -0.07], [JR - 0.03, -0.07], [JR - 0.03, 0], [JR - 0.05, 0]], M.silicone, 72); g.add(skirt);
-    const knob = new THREE.Mesh(new THREE.CylinderGeometry(0.095, 0.11, 0.06, 32), wood ? M.wood : M.lid); knob.position.y = 0.14; g.add(knob); if (wood) woodMeshes.push(knob);
-    const valve = new THREE.Mesh(new THREE.CylinderGeometry(0.03, 0.03, 0.026, 16), M.valve); valve.position.set(0.22, 0.1, 0); g.add(valve);   // 밸브는 축 옆
+    const shaft = new THREE.Group(); g.add(shaft); shaft.userData.slow = true; spinners.push(shaft);                                      // 축 + 손잡이는 한 몸 — 젓개를 따라 천천히 돎
+    const knob = lathe([[0, 0], [0.06, 0], [0.06, 0.05], [0.13, 0.09], [0.165, 0.16], [0.14, 0.23], [0.07, 0.27], [0, 0.27]], wood ? M.wood : M.lid, 72); knob.position.y = 0.105; shaft.add(knob); if (wood) woodMeshes.push(knob);   // 둥근 손잡이 = 젓개 축 머리(첫 화면 사진)
+    const valve = new THREE.Mesh(new THREE.CylinderGeometry(0.03, 0.03, 0.026, 16), M.valve); valve.position.set(0.26, 0.1, 0); g.add(valve);   // 밸브는 축 옆
     const stemL = JH - GT - 0.17;                                                                                                             // 뚜껑 밑면 → 젓개 소켓 위
-    const stem = new THREE.Mesh(new THREE.CylinderGeometry(STEMR, STEMR, stemL + 0.08, 20), M.glass); stem.position.y = -stemL / 2 + 0.04; g.add(stem);   // 투명 축(트라이탄)
+    const stem = new THREE.Mesh(new THREE.CylinderGeometry(STEMR, STEMR, stemL + 0.08, 20), M.glass); stem.position.y = -stemL / 2 + 0.04; shaft.add(stem);   // 투명 축(트라이탄)
     const bear = new THREE.Mesh(new THREE.CylinderGeometry(STEMR + 0.03, STEMR + 0.03, 0.04, 20), M.pp); bear.position.y = -0.02; g.add(bear);          // 축 베어링(뚜껑 밑)
-    const tip = new THREE.Mesh(new THREE.CylinderGeometry(STEMR + 0.012, STEMR + 0.012, 0.05, 20), M.pp); tip.position.y = -stemL + 0.02; g.add(tip);    // 축 끝 딸깍 돌기
+    const tip = new THREE.Mesh(new THREE.CylinderGeometry(STEMR + 0.012, STEMR + 0.012, 0.05, 20), M.pp); tip.position.y = -stemL + 0.02; shaft.add(tip);    // 축 끝 딸깍 돌기
     const rest = lathe([[r, 0.055], [r + 0.03, 0.055], [r + 0.03, 0.075], [r, 0.075]], M.lid, 72); g.add(rest);                                          // 입구에 걸쳐 세우는 턱
     g.position.y = JY + JH;
-    part(`뚜껑 · PP · 가운데 축 베어링 + 투명 축(트라이탄 Ø8)이 바닥 젓개까지 · 뚜껑 들면 젓개가 같이 나옴 · 한 방향 밸브 · 입구에 걸쳐 세우는 턱${wood ? ' · 나무 손잡이' : ''}`, g, [0, 1.9, 0], new THREE.Vector3(r, 0.07, 0));
+    part(`뚜껑 · PP 평뚜껑 · 둥근 손잡이 = 젓개 축 머리 · 가운데 베어링 + 투명 축(트라이탄 Ø8)이 바닥 젓개까지 · 뚜껑 들면 젓개가 같이 나옴 · 한 방향 밸브 · 입구에 걸쳐 세우는 턱${wood ? ' · 나무 손잡이' : ''}`, g, [0, 1.9, 0], new THREE.Vector3(r, 0.07, 0));
   }
   /* 6. 구동 자석 디스크 Ø40 × 5mm + 부시 + 5V 기어 모터 — 자리 바닥 바로 아래 · 유효 간격 4.5mm · 20~30rpm · 0.1 N·m */
   {
@@ -417,10 +430,10 @@ function buildLite() {
   /* 8. 버튼 1 + 빛 1줄 — 앞 윗면 */
   {
     const g = new THREE.Group();
-    const bz = V.baseR - 0.13;
-    const btn = new THREE.Mesh(new THREE.CylinderGeometry(0.065, 0.065, 0.018, 32), M.lid); btn.position.set(0, BH + 0.007, bz); g.add(btn);
-    const strip = new THREE.Mesh(new RoundedBoxGeometry(0.28, 0.012, 0.025, 1, 0.005), M.strip); strip.position.set(0, BH + 0.004, bz - 0.1); g.add(strip);
-    part('버튼 1 + 빛 1줄 · 앞에서 보이는 전부', g, [0.7, 0.25, 0.4], new THREE.Vector3(0.1, BH, bz));
+    const bz = V.baseR;   // 앞면(세로면)에 — 첫 화면 사진: 빛 막대 위 · 버튼 아래
+    const btn = new THREE.Mesh(new THREE.CylinderGeometry(0.065, 0.065, 0.03, 32), M.lid); btn.rotation.x = Math.PI / 2; btn.position.set(0, BH * 0.47, bz + 0.002); g.add(btn);
+    const strip = new THREE.Mesh(new RoundedBoxGeometry(0.24, 0.022, 0.03, 1, 0.008), M.strip); strip.position.set(0, BH * 0.8, bz + 0.004); g.add(strip);
+    part('버튼 1 + 빛 막대 1줄 · 앞면 · 앞에서 보이는 전부', g, [0.7, 0.25, 0.4], new THREE.Vector3(0.1, BH * 0.6, bz));
   }
   /* 9. 바닥판 — 고무발 4 · 바람 구멍 없음 */
   {
